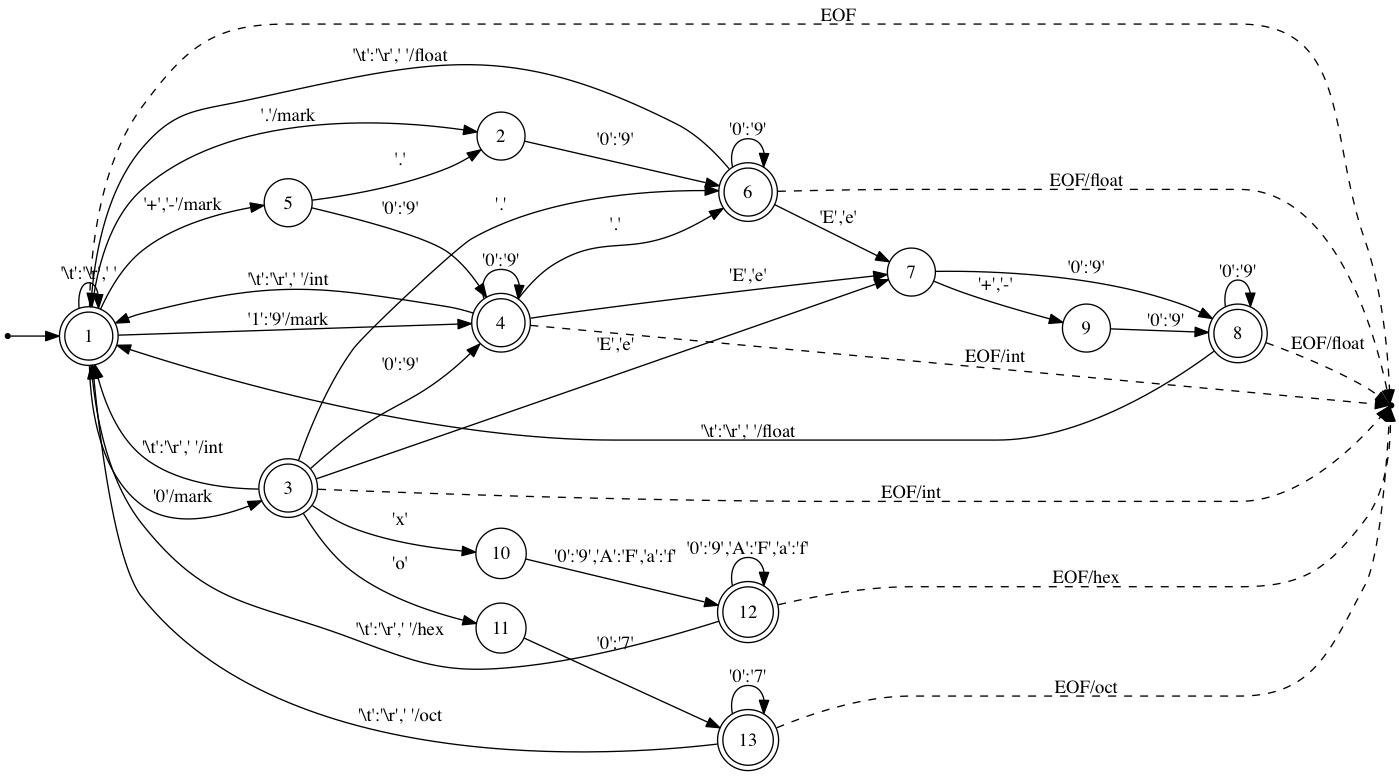
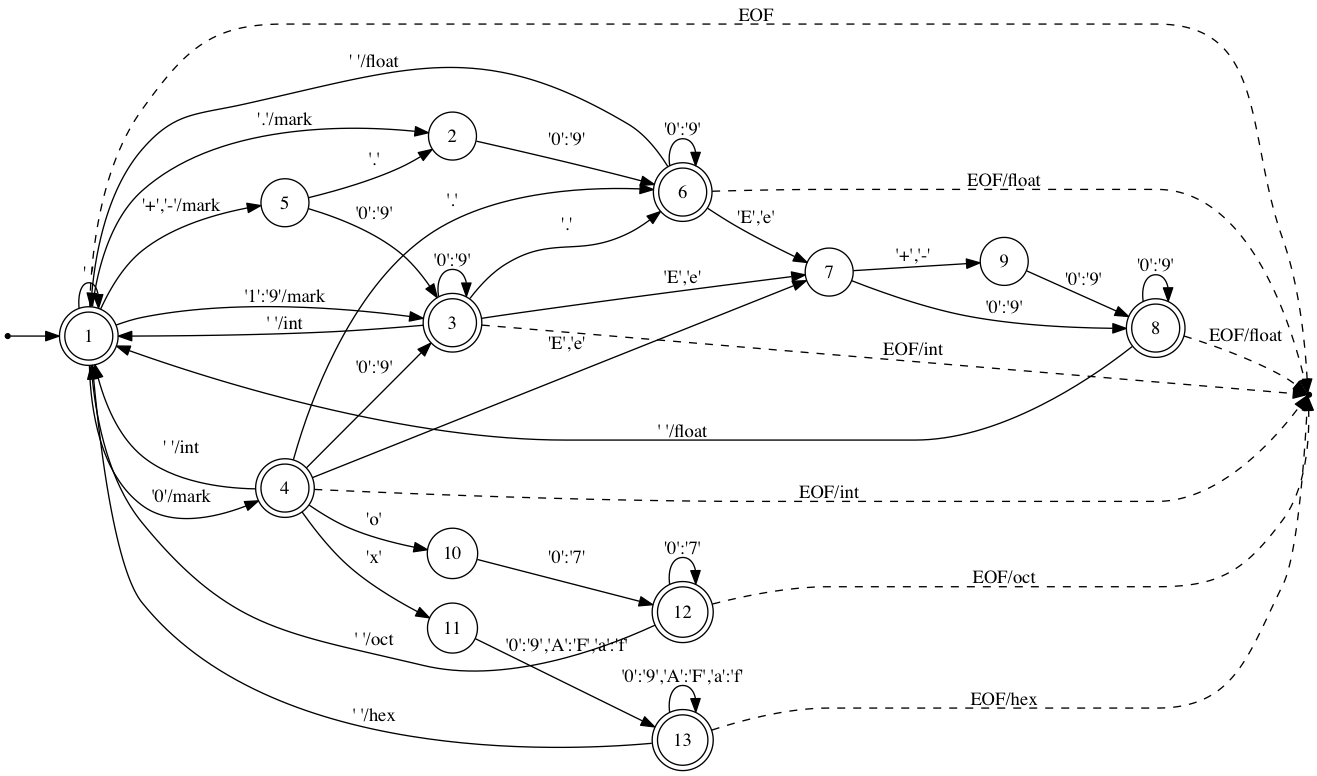
fix regular expression of numbers.jl

diff --git a/README.md b/README.md
@@ -57,4 +57,4 @@ tokens, status = tokenize("1 0x0123BEEF 0o754 3.14 -1e4 +6.022045e23")
 ```
 
 The compiled deterministic finite automaton (DFA) looks like this:
-![DFA](/numbers.png)
+![DFA](/docs/figure/numbers.png)
